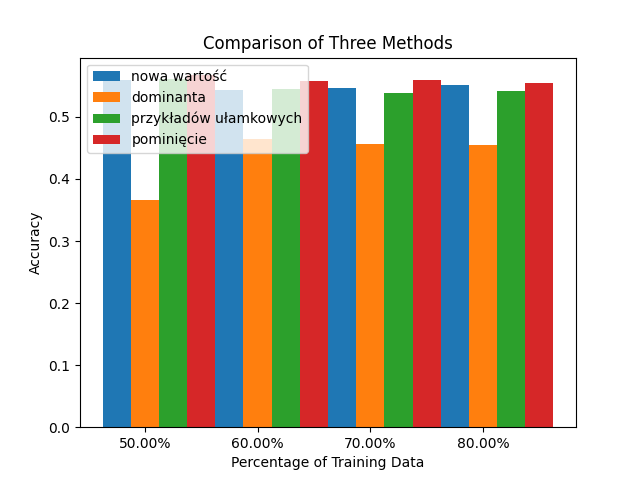
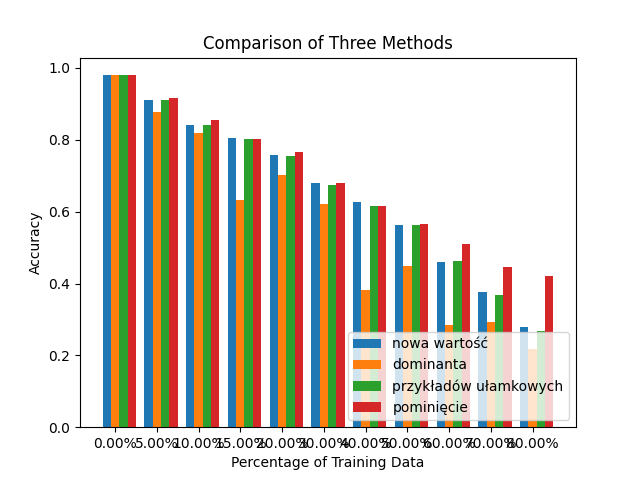
Plots done

diff --git a/visualization_utils.py b/visualization_utils.py
@@ -186,7 +186,7 @@ def visulate_acc_per_replacement_method(list_of_acc, labels):
     method3_acc = list_of_acc[2::4]
     method4_acc = list_of_acc[3::4]
     
-    bar_width = 0.25  # Adjust bar width for three methods
+    bar_width = 0.2  # Adjust bar width for three methods
     index = np.arange(len(labels))
     
     fig, ax = plt.subplots()
@@ -200,7 +200,7 @@ def visulate_acc_per_replacement_method(list_of_acc, labels):
     ax.set_title('Comparison of Three Methods')
     ax.set_xticks(index + bar_width)
     ax.set_xticklabels(labels)
-    ax.legend()
+    ax.legend(loc='lower right')
     
     plt.savefig("metody_test.png")
     plt.show()
@@ -238,7 +238,7 @@ def visulate_f1_per_replacement_method(list_of_f1, labels):
     ax.set_title('Comparison of Three Methods')
     ax.set_xticks(index + bar_width)
     ax.set_xticklabels(labels)
-    ax.legend(0)
+    ax.legend(loc='lower right')
     
     plt.savefig("metody_test_f1.png")
     plt.show()

diff --git a/dataset_utils.py b/dataset_utils.py
@@ -74,10 +74,11 @@ def split_random_to_train_and_test_data(attrs_vals, class_vals, percent_of_train
     return ({"attrs_index": list(range(len(attrs_vals[0]))), "attrs_vals": train_attrs_vals}, train_class_vals), \
            ({"attrs_index": list(range(len(attrs_vals[0]))), "attrs_vals": test_attrs_vals}, test_class_vals)
 
-def split_random_to_train_and_test_data_diff_methods(attrs_vals, class_vals, percent_of_train_data, masking_rate=0.1):
+def split_random_to_train_and_test_data_diff_methods(attrs_vals, class_vals, percent_of_train_data, masking_rate=10):
     """
     Splits the given dataset into training and testing data randomly after applying random attribute masking.
     """
+    masking_rate=masking_rate/100
     rand_seed = random.randint(-sys.maxsize-1, sys.maxsize)
     # skipped data 
     combined_data_skip = list(zip(attrs_vals, class_vals))

diff --git a/main.py b/main.py
@@ -131,7 +131,7 @@ visulate_acc_per_input_method(list_of_acc, labels_for_percent_of_train_data)
 ######
 # compare acc of diff methods
 ######
-list_of_percent_train_data = [50, 60, 70, 80]
+list_of_percent_train_data = [0, 5, 10, 15, 20, 30, 40, 50, 60, 70, 80]
 labels_for_percent_of_train_data = []
 list_of_acc = []
 list_of_f1 = []
@@ -143,7 +143,7 @@ for i in list_of_percent_train_data:
 
     print(i)
     train_data, test_data, train_data_mode, test_data_mode, train_data_distrib, test_data_distrib, skip_train, skip_test = \
-        split_random_to_train_and_test_data_diff_methods(row_attrs, class_vals, i, 0.5)
+        split_random_to_train_and_test_data_diff_methods(row_attrs, class_vals, 70, i)
 
     decision_tree = DecisionTree(train_data, MAX_DEPTH, default_prediction, method='gini', FEM=False)
     acc = decision_tree.calculate_acc(test_data)
